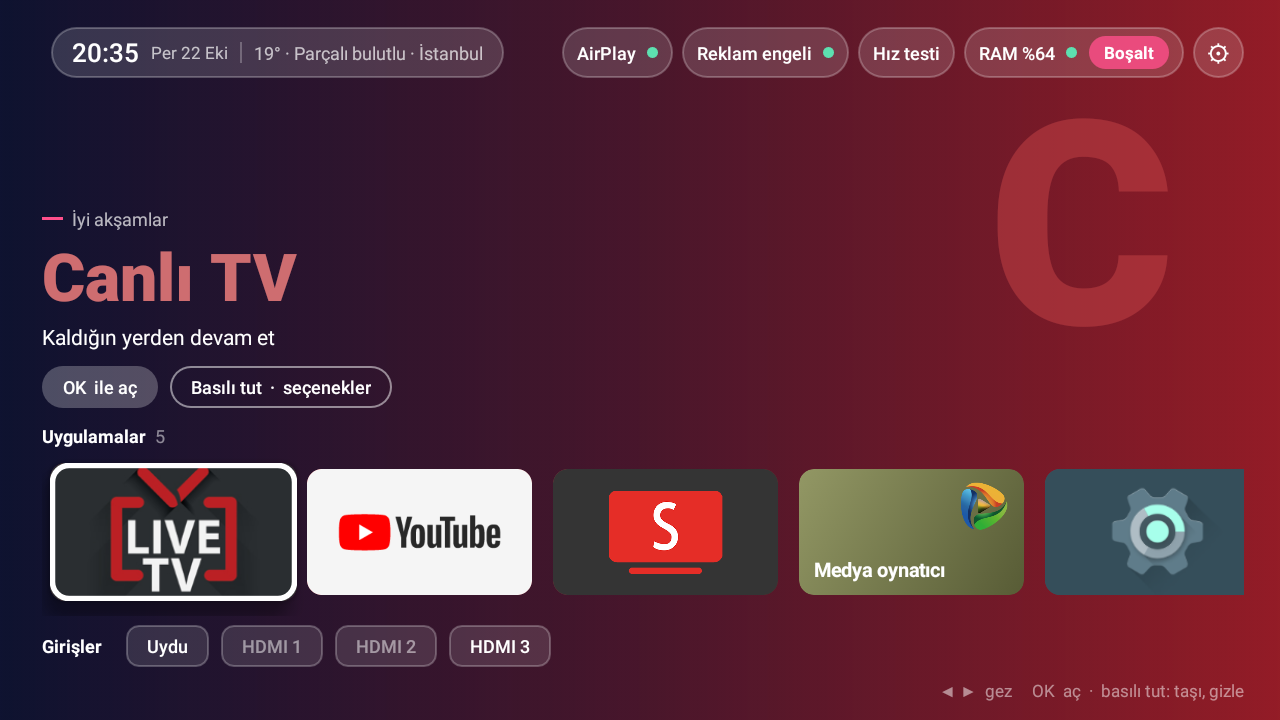
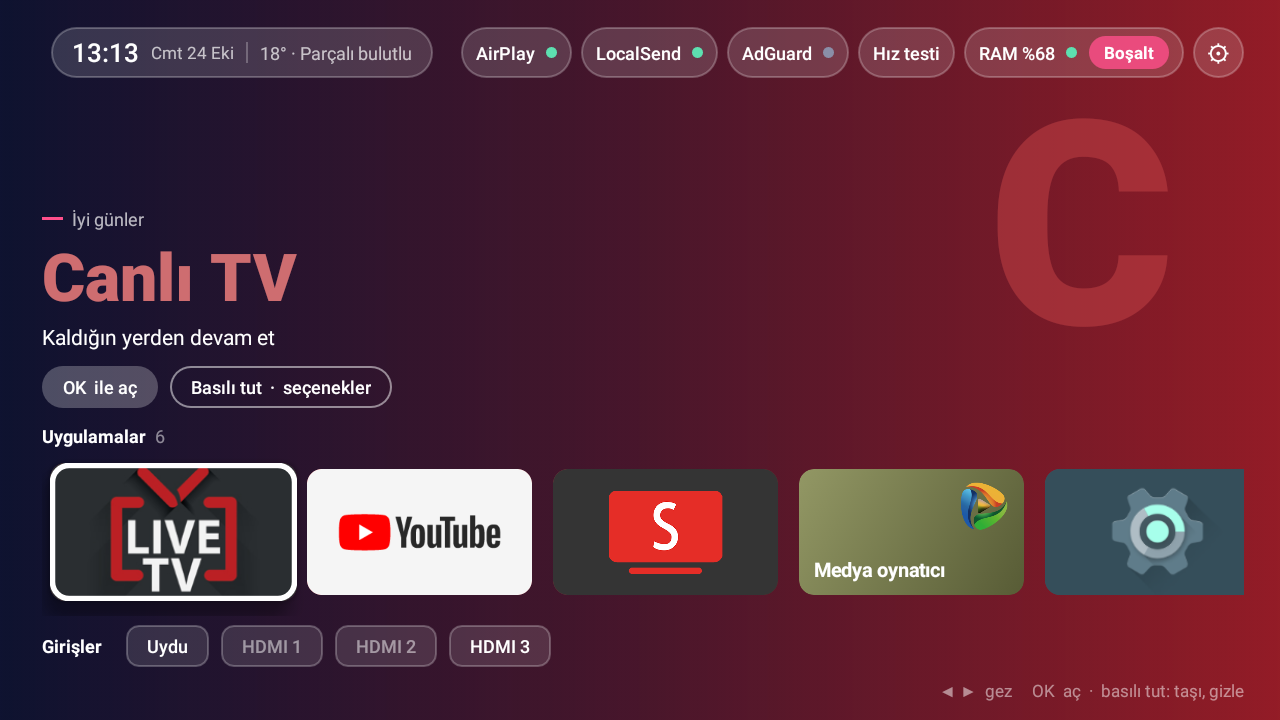
LocalSend bekcisi ve yeni ekran goruntusu (v1.2)
- LocalSend bellek sikisinca kapaniyor; ana ekran acikken kapanmissa
  en fazla 5 dakikada bir yeniden baslatilir (~1 sn gorunur)
- Arka plan baslatma suresi 3 sn'den 1 sn'ye indi
- README ekran goruntusu LocalSend dugmesiyle guncellendi

Changed region(s): [[0.0625, 0.0306, 0.6562, 0.1222], [0.0625, 0.275, 0.125, 0.3361]]

diff --git a/app/src/main/java/com/ozdogan/tvanaekran/MainActivity.java b/app/src/main/java/com/ozdogan/tvanaekran/MainActivity.java
@@ -23,6 +23,7 @@ import android.net.Uri;
 import android.os.Bundle;
 import android.os.Handler;
 import android.os.Looper;
+import android.os.SystemClock;
 import android.provider.Settings;
 import android.text.TextUtils;
 import android.util.TypedValue;
@@ -62,7 +63,12 @@ public class MainActivity extends Activity {
     private static final Set<String> KEEP_ALIVE = new HashSet<>(java.util.Arrays.asList(
             AppRepository.AIRSCREEN, AppRepository.LOCALSEND, "com.android.systemui", "android"));
     /** Arka plan uygulamasi acildiktan sonra ana ekrana donmeden once beklenen sure. */
-    private static final long SERVICE_WARMUP = 3_000;
+    private static final long SERVICE_WARMUP = 1_000;
+    /**
+     * LocalSend kendini koruyan bir servis calistirmiyor; bellek sikisinca Android onu kapatiyor.
+     * Ana ekran acikken kapanmissa yeniden baslatilir, ama ekrani rahatsiz etmemek icin en fazla bu siklikla.
+     */
+    private static final long LOCALSEND_RESTART_GAP = 5 * 60_000;
 
     private final Handler ui = new Handler(Looper.getMainLooper());
     private final ExecutorService bg = Executors.newSingleThreadExecutor();
@@ -81,6 +87,9 @@ public class MainActivity extends Activity {
     private View airplayDot, localsendDot, adDot, ramDot;
     private boolean speedRunning;
     private TextView hint;
+    private boolean resumed;
+    /** -LOCALSEND_RESTART_GAP: ilk kontrolde hemen baslatilabilsin. */
+    private long lastLocalSendStart = -LOCALSEND_RESTART_GAP;
     /** Tasima modundaki uygulama; null ise normal gezinme. */
     private AppEntry moving;
 
@@ -164,18 +173,13 @@ public class MainActivity extends Activity {
         registerReceiver(packageReceiver, f);
 
         reloadApps(repo.lastOpened());
-
-        // TV acildiginda LocalSend'i arka planda baslat ki dosya alabilsin
-        ui.postDelayed(() -> bg.execute(() -> {
-            if (repo.isInstalled(AppRepository.LOCALSEND) && !Status.listening(Status.LOCALSEND_PORT)) {
-                ui.post(() -> startInBackground(AppRepository.LOCALSEND));
-            }
-        }), 4_000);
+        // LocalSend'i baslatma isini refreshNetworkStatus'taki bekci yapar (TV acilisi dahil)
     }
 
     @Override
     protected void onResume() {
         super.onResume();
+        resumed = true;
         greeting.setText(greetingText());
         // HDMI'ye cihaz takilip cikarilmis olabilir; odak girislerdeyse dokunma
         View f = getCurrentFocus();
@@ -189,6 +193,7 @@ public class MainActivity extends Activity {
     @Override
     protected void onPause() {
         super.onPause();
+        resumed = false;
         ui.removeCallbacks(ramTick);
         ui.removeCallbacks(netTick);
         ui.removeCallbacks(weatherTick);
@@ -654,10 +659,13 @@ public class MainActivity extends Activity {
             boolean air = Status.listening(Status.AIRSCREEN_PORT);
             boolean send = Status.listening(Status.LOCALSEND_PORT);
             boolean ad = Status.adBlockActive();
+            boolean restart = !send && repo.isInstalled(AppRepository.LOCALSEND)
+                    && SystemClock.elapsedRealtime() - lastLocalSendStart > LOCALSEND_RESTART_GAP;
             ui.post(() -> {
                 setDot(airplayDot, air);
                 setDot(localsendDot, send);
                 setDot(adDot, ad);
+                if (restart && resumed && moving == null) startInBackground(AppRepository.LOCALSEND);
             });
         });
     }
@@ -679,12 +687,13 @@ public class MainActivity extends Activity {
             toast("Uygulama yüklü değil");
             return;
         }
+        if (AppRepository.LOCALSEND.equals(pkg)) lastLocalSendStart = SystemClock.elapsedRealtime();
         startActivity(it.addFlags(Intent.FLAG_ACTIVITY_NEW_TASK));
         ui.postDelayed(() -> startActivity(new Intent(Intent.ACTION_MAIN)
                 .addCategory(Intent.CATEGORY_HOME)
                 .setPackage(getPackageName())
                 .addFlags(Intent.FLAG_ACTIVITY_NEW_TASK)), SERVICE_WARMUP);
-        ui.postDelayed(this::refreshNetworkStatus, SERVICE_WARMUP + 1_500);
+        ui.postDelayed(this::refreshNetworkStatus, SERVICE_WARMUP + 4_000);
     }
 
     private void onLocalSendClick() {

diff --git a/README.md b/README.md
@@ -29,7 +29,9 @@ Bu ana ekran hiçbir kütüphane kullanmadan, sadece Android'in kendi bileşenle
   - Saat, tarih ve hava durumu ([Open-Meteo](https://open-meteo.com), anahtar gerekmez)
   - **AirPlay** durumu: [AirScreen](https://www.airscreen.app) yansıtmaya hazırsa yeşil
   - **LocalSend** durumu: [LocalSend](https://localsend.org) dosya almaya hazırsa yeşil. Telefondan TV'ye
-    APK, fotoğraf ve video gönderilebilir; TV açılınca arka planda kendiliğinden başlar
+    APK, fotoğraf ve video gönderilebilir. LocalSend kendini koruyan bir servis çalıştırmadığı için Android
+    bellek sıkışınca onu kapatabiliyor; ana ekran bunu fark edip yeniden başlatır (en fazla 5 dakikada bir,
+    ekranda ~1 saniye LocalSend görünür)
   - **AdGuard** durumu: ağda [AdGuard DNS](https://adguard-dns.io) çalışıyorsa yeşil
   - **Hız testi** (Cloudflare üzerinden 8 saniyelik indirme)
   - **RAM** göstergesi ve tek tuşla **Boşalt**
